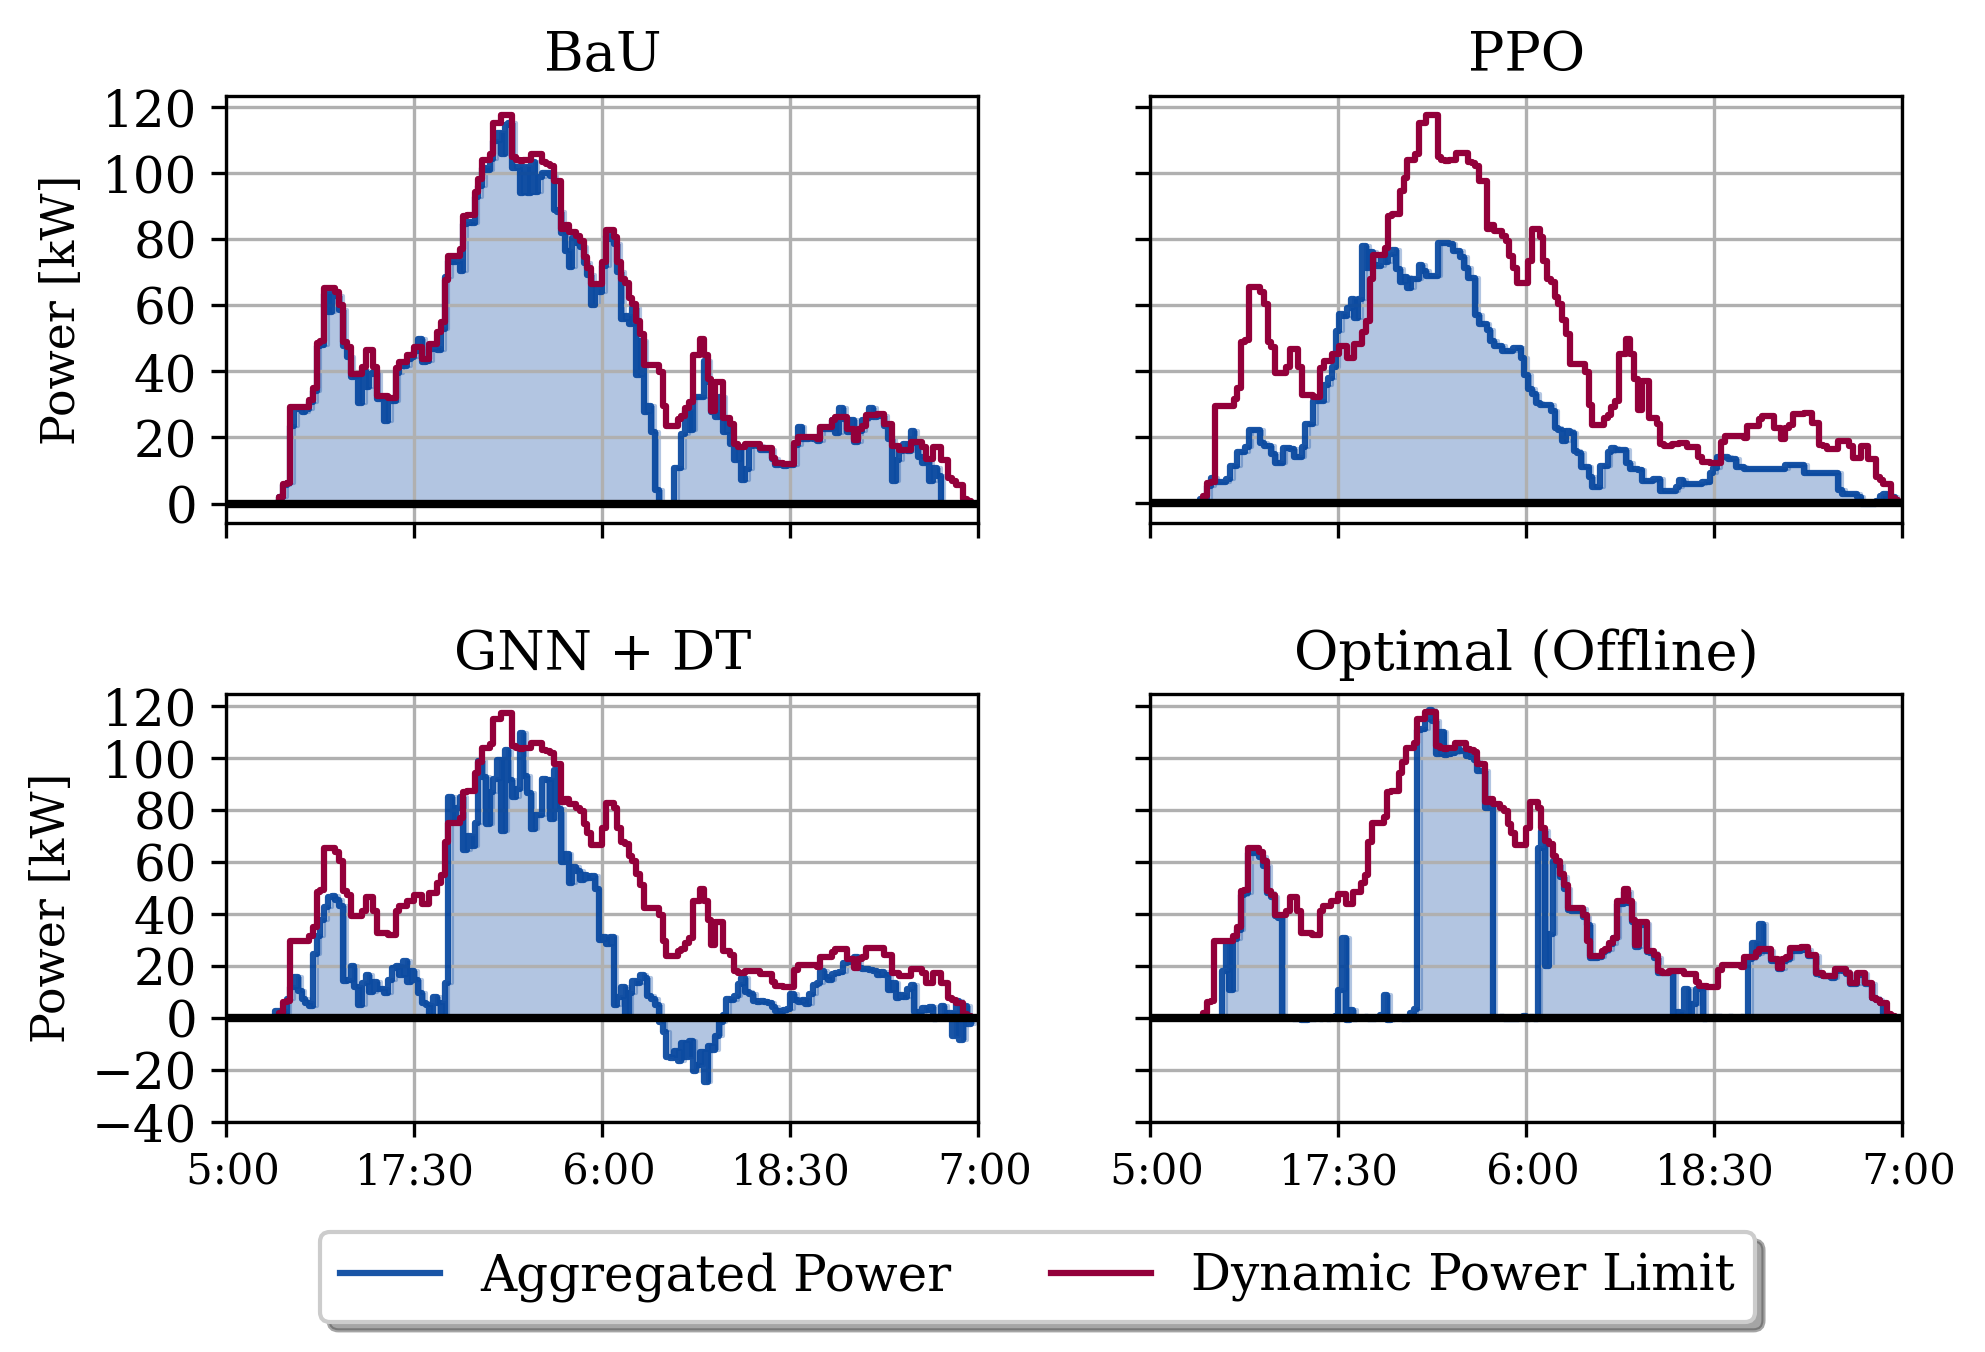
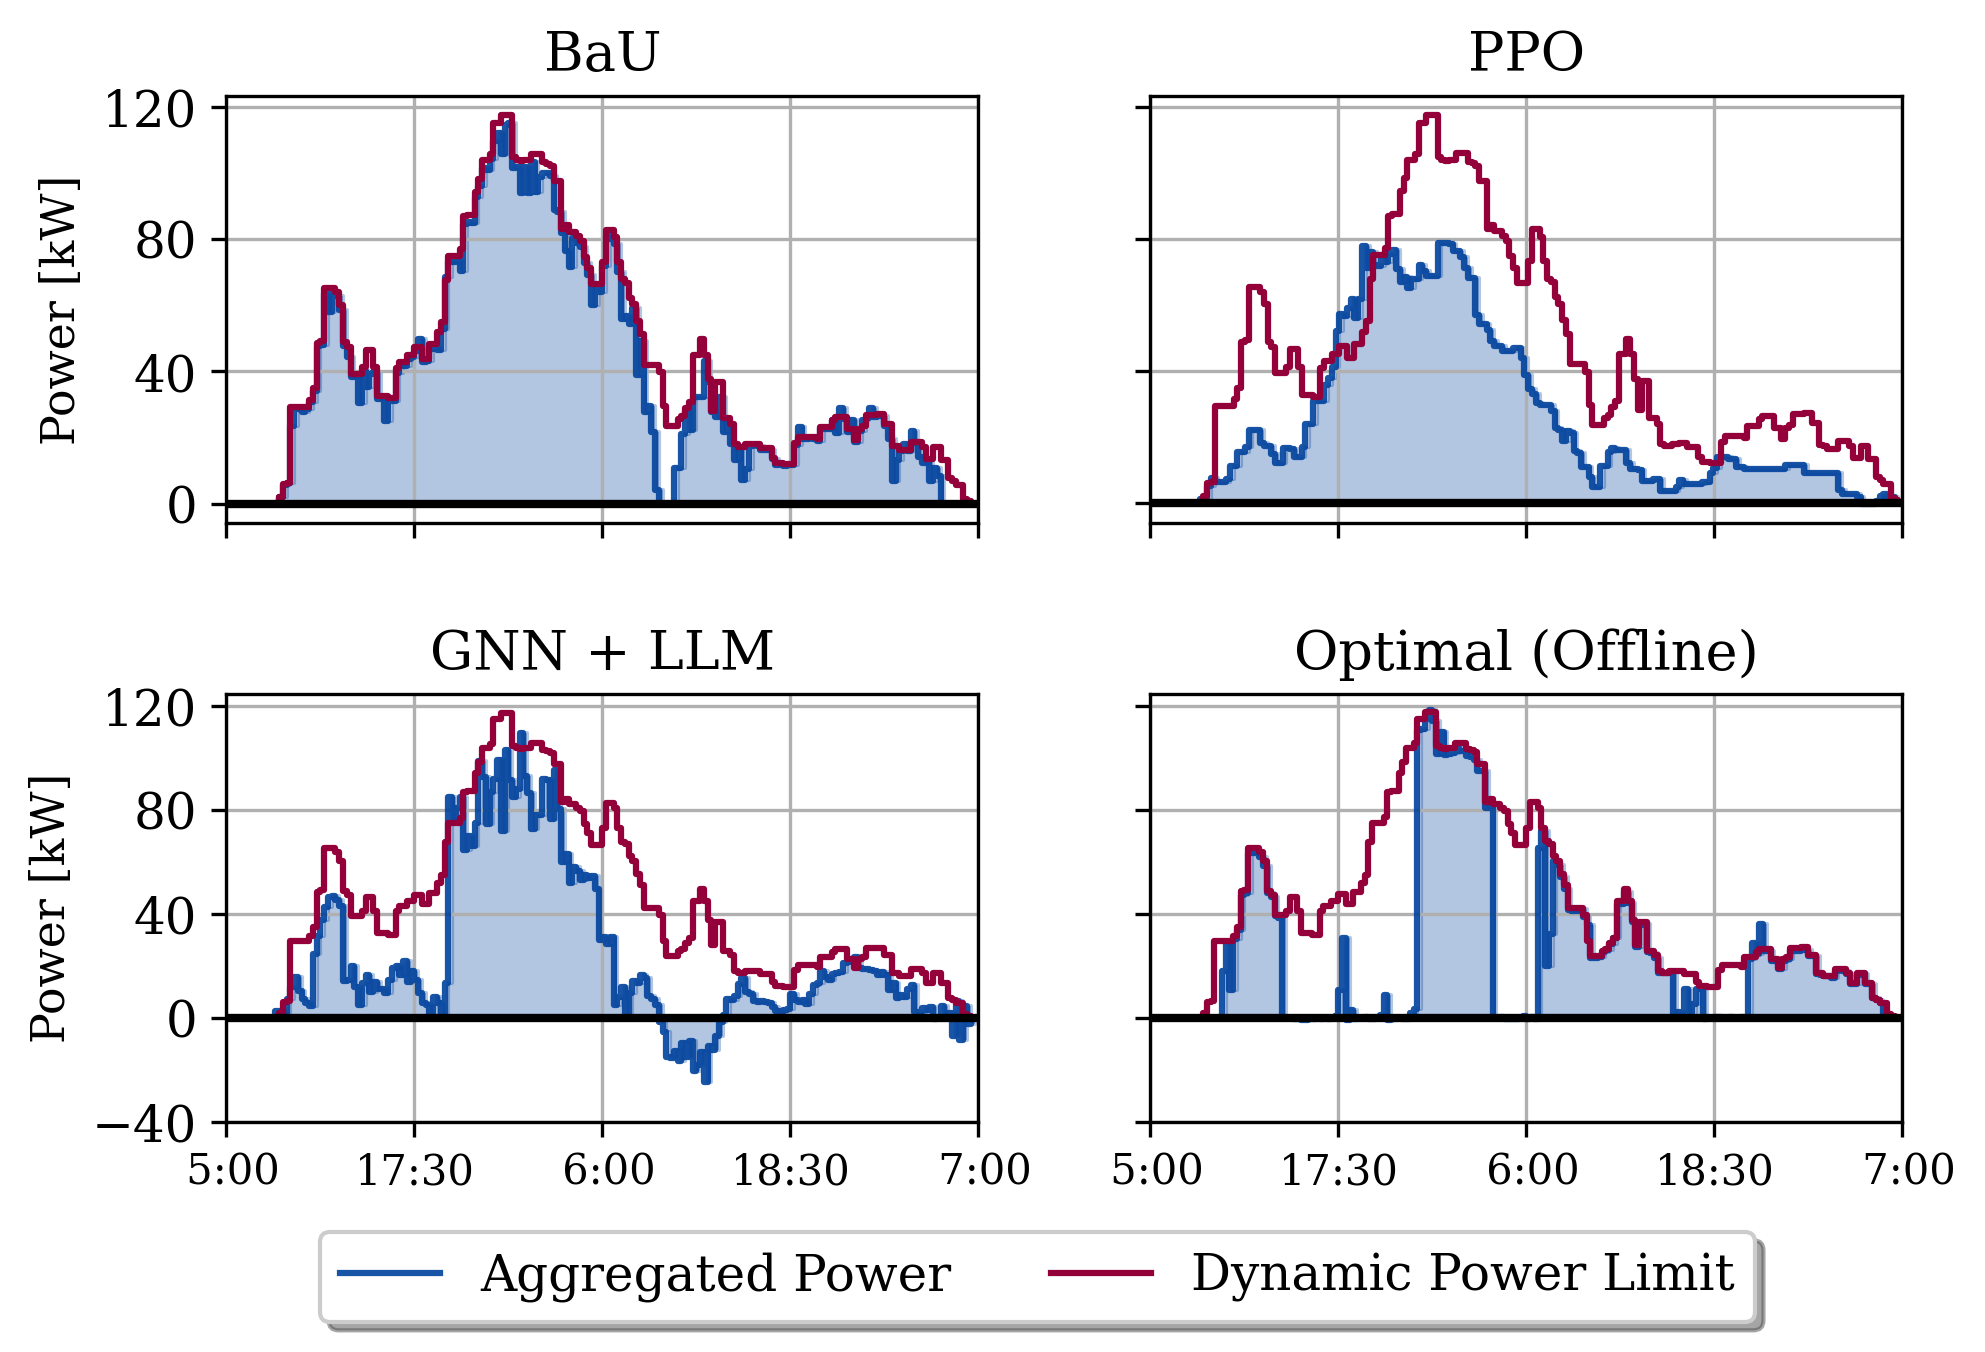
small fixes

diff --git a/plot_charging_analysis.py b/plot_charging_analysis.py
@@ -235,18 +235,18 @@ def plot_actual_power_vs_setpoint(results_path,
 
         
         if index == 1:
-            plt.yticks(np.arange(0, 125, 20), 
+            plt.yticks(np.arange(0, 125, 40), 
                        fontsize=12)
         elif index == 2:
-            plt.yticks(np.arange(0, 125, 20),
-                          labels=' '*7,
+            plt.yticks(np.arange(0, 125, 40),
+                          labels=' '*4,
                           fontsize=12)
         elif index == 3:
-            plt.yticks(np.arange(-40, 125, 20), 
+            plt.yticks(np.arange(-40, 125, 40), 
                        fontsize=12)
         else:
-            plt.yticks(np.arange(-40, 125, 20),
-                          labels=' '*9,
+            plt.yticks(np.arange(-40, 125, 40),
+                          labels=' '*5,
                           fontsize=12)
         
         if index == 1 or index == 3:
@@ -886,23 +886,23 @@ def plot_comparable_CS_Power_scatterplot(results_path, save_path=None, algorithm
 if __name__ == '__main__':
 
     # results_path = './results/eval_50cs_1tr_PST_V2G_ProfixMax_50_PES_5_algos_100_exp_2025_02_02_868691/'
-    # results_path = './results/eval_50cs_1tr_PST_V2G_ProfixMax_50_PES_5_algos_1_exp_2025_02_03_727655/'
-    results_path = './results/eval_50cs_1tr_PST_V2G_ProfixMax_50_PES_5_algos_1_exp_2025_02_04_757687/'
+    results_path = './results/eval_50cs_1tr_PST_V2G_ProfixMax_50_PES_5_algos_1_exp_2025_02_03_727655/'
+    # results_path = './results/eval_50cs_1tr_PST_V2G_ProfixMax_50_PES_5_algos_1_exp_2025_02_04_757687/'
     save_path = './results_analysis/figs/'
 
-    algorithm_names = ['CAFAP','BaU','PPO','GNN + DT', 'Optimal (Offline)']
-    # algorithm_names = ['CAFAP','BaU','GNN + DT','PPO', 'Optimal (Offline)']
+    algorithm_names = ['CAFAP','BaU','PPO','GNN + LLM', 'Optimal (Offline)']
+    algorithm_names = ['CAFAP','BaU','GNN + LLM','PPO', 'Optimal (Offline)']
     marker_list = ['o', 's', 'D', '^', 'v']
     color_list = ['b', 'g', 'r', 'c', 'm']
 
     plt.rcParams['font.family'] = 'serif'
 
-    # plot_comparable_EV_SoC_single(results_path=results_path + 'plot_results_dict.pkl',
-    #                               save_path=save_path,
-    #                               algorithm_names=algorithm_names,
-    #                               color_list=color_list,
-    #                               marker_list=marker_list
-    #                               )
+    plot_comparable_EV_SoC_single(results_path=results_path + 'plot_results_dict.pkl',
+                                  save_path=save_path,
+                                  algorithm_names=algorithm_names,
+                                  color_list=color_list,
+                                  marker_list=marker_list
+                                  )
     # plot_comparable_CS_Power(
     #     results_path=results_path + 'plot_results_dict.pkl',
     #     save_path=save_path,
@@ -923,11 +923,11 @@ if __name__ == '__main__':
     #                        marker_list=marker_list
     #                        )
 
-    plot_actual_power_vs_setpoint(
-        results_path=results_path + 'plot_results_dict.pkl',
-        save_path=save_path,
-        algorithm_names=algorithm_names
-    )
+    # plot_actual_power_vs_setpoint(
+    #     results_path=results_path + 'plot_results_dict.pkl',
+    #     save_path=save_path,
+    #     algorithm_names=algorithm_names
+    # )
 
     # plot_total_power_V2G(
     #     results_path=results_path + 'plot_results_dict.pkl',
